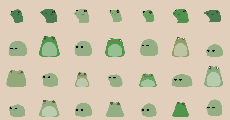
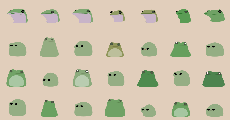
Frog3 - created belly and others

diff --git a/face_code.js b/face_code.js
@@ -278,6 +278,8 @@ function drawFace3(h_thickness, s_length, height, s_height,
                   e_shape, e_height, s_width, mouth, pupil,
                   colour, belly, m_open) {
   // s - snout
+  scale(1.2,1);
+  translate(1,0);
   height = height/10;
   h_thickness = h_thickness/10;
   s_length = s_length/10;
@@ -293,6 +295,7 @@ function drawFace3(h_thickness, s_length, height, s_height,
   var bodver = [];
   var eyeverL = [];
   var eyeverR = [];
+  var tonver = [];
 
   var col1  = color(143,147,85);
   var col2 = color(149,174,132);
@@ -310,6 +313,10 @@ function drawFace3(h_thickness, s_length, height, s_height,
     curCol = lerpColor(col3, col4, colour-2);
   }
 
+  if(belly < 1){
+    scale(-1,1);
+  }
+
   ver.push(createVector( -0.5 - s_length/10 - h_thickness/8, -4 + s_height/10 + s_width - height/6)); // top left
   ver.push(createVector( 3 +h_thickness/8, -3 - height/10)); // top right
 
@@ -324,7 +331,7 @@ function drawFace3(h_thickness, s_length, height, s_height,
 
   ver.push(createVector( -2 - s_length/8 - h_thickness/8, 1 + s_height/10 - s_width * 0.8 + height/10));
 
-  ver.push(createVector( -2.5 - s_length/5 - h_thickness/4 , 0 + s_height/5 - height/10 - s_width));
+  ver.push(createVector( -2.5 - s_length/6 - h_thickness/5 , 0 + s_height/7 - height/10 - s_width));
 
   ver.push(createVector( -3 - s_length/4 - h_thickness/3, -2 + s_height/5 - height/10));
 
@@ -339,9 +346,22 @@ function drawFace3(h_thickness, s_length, height, s_height,
   noStroke();
   drawCurves(ver);
 
+  tonver.push(createVector( -0 - s_length/10 - h_thickness/8, -1 + s_height/10 + s_width - height/6)); // top left
+  tonver.push(createVector( 3 +h_thickness/8, 0 - height/10)); // top right
+  tonver.push(createVector( 4 + h_thickness/8, 3 + height/6)); // bottom right
+  tonver.push(createVector( 3  + h_thickness/8, 5 + height/6));
+  tonver.push(createVector( -1 - s_length/8 - h_thickness/8, 5 + height/6));
+  tonver.push(createVector( -1 - s_length/8 - h_thickness/8, 3 + height/6)); // bottom left
+  tonver.push(createVector( -2 - s_length/8 - h_thickness/8, 1 + s_height/10 - s_width * 0.8 + height/10));
+  tonver.push(createVector( -2.5 - s_length/6 - h_thickness/5 , 0 + s_height/7 - height/10 - s_width));
+  tonver.push(createVector( -2.4 - s_length/4 - h_thickness/3, -1 + s_height/5 - height/10));
+  tonver.push(createVector( -2.6 - s_length/4 - h_thickness/3, -2 + s_height/5 - height/10));
+
+
+
   if(e_shape < 0.3 && (h_thickness > 0.15 || s_length > 0.15)){ // can see entire tri when snout is too small
-    eyeverL.push( createVector( -1.5-h_thickness/8- s_length/6,  -1 - height/10 - e_height) );
-    eyeverL.push( createVector( 1.5-h_thickness/8- s_length/6,  -1 - height/10 - e_height) );
+    eyeverL.push( createVector( -1.5-h_thickness/8- s_length/6,  -2 - height/10 - e_height) );
+    eyeverL.push( createVector( 1.5-h_thickness/8- s_length/6,  -2 - height/10 - e_height) );
     eyeverL.push( createVector( 0-h_thickness/8- s_length/6, -4 - height/10 - e_height) );
 
     eyeverR.push( createVector( -1.5+h_thickness/8,  -2 - height/10 - e_height) );
@@ -351,11 +371,10 @@ function drawFace3(h_thickness, s_length, height, s_height,
       translate(1.9,0);
       drawCurves(eyeverR);
     pop();
-    push();
 
+    push();
       translate(-2.2 + s_width,0.5);
       scale(0.8,1);
-
       drawCurves(eyeverL);
     pop();
   }
@@ -371,6 +390,12 @@ function drawFace3(h_thickness, s_length, height, s_height,
   }
 
 
+  if(belly > 3){
+    push();
+      fill(200,180,200);
+      drawCurves(tonver);
+    pop();
+  }
 
   // if(true){
   if(false){
@@ -383,10 +408,10 @@ function drawFace3(h_thickness, s_length, height, s_height,
 
   if(e_shape > 0.875){
     fill(0);
-    arc( 0.5 +h_thickness/8, -2 - height/10 - e_height,2,0.2,PI,0,CHORD);
-    arc( 0.5 +h_thickness/8, -2 - height/10 - e_height,2,2,0,PI,CHORD);
+    // arc( 0.5 +h_thickness/8, -2 - height/10 - e_height,2,0.2,PI,0,CHORD);
+    arc( 0.5 +h_thickness/8, -2 - height/10 - e_height,2,2,-0.2,PI- 0.2,CHORD);
     fill(65,80,60);
-    arc( 0.5 +h_thickness/8, -2 - height/10 - e_height,1.6,1.6,0,PI,CHORD);
+    arc( 0.5 +h_thickness/8, -2 - height/10 - e_height,1.6,1.6,-0.2,PI-0.2,CHORD);
   }
   else if(e_shape > 0.75){
     fill(0);
@@ -407,14 +432,13 @@ function drawFace3(h_thickness, s_length, height, s_height,
   noFill();
   push();
     bezier( -2.8 - s_length/4 - h_thickness/3, -2 + s_height/5 - height/10,
-          0.5,mouth/2,
-          1.5,mouth,
-          2 + h_thickness/5,0);
+          0.5,mouth/2 - height/10,
+          1.5,0.5 + mouth - height/10,
+          2 + h_thickness/5,-height/10);
   pop();
-
-
-
 }
+
+
 
 
 function drawCurves(ver){
